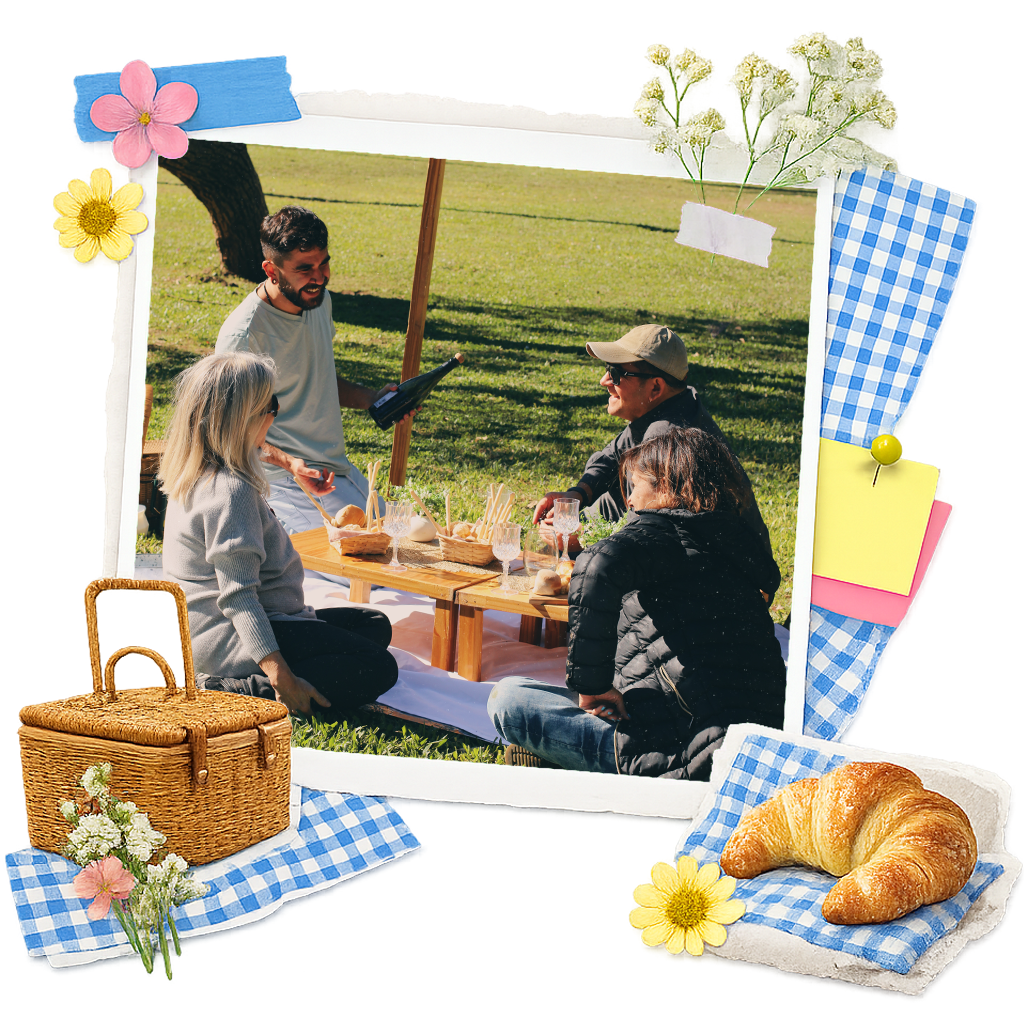
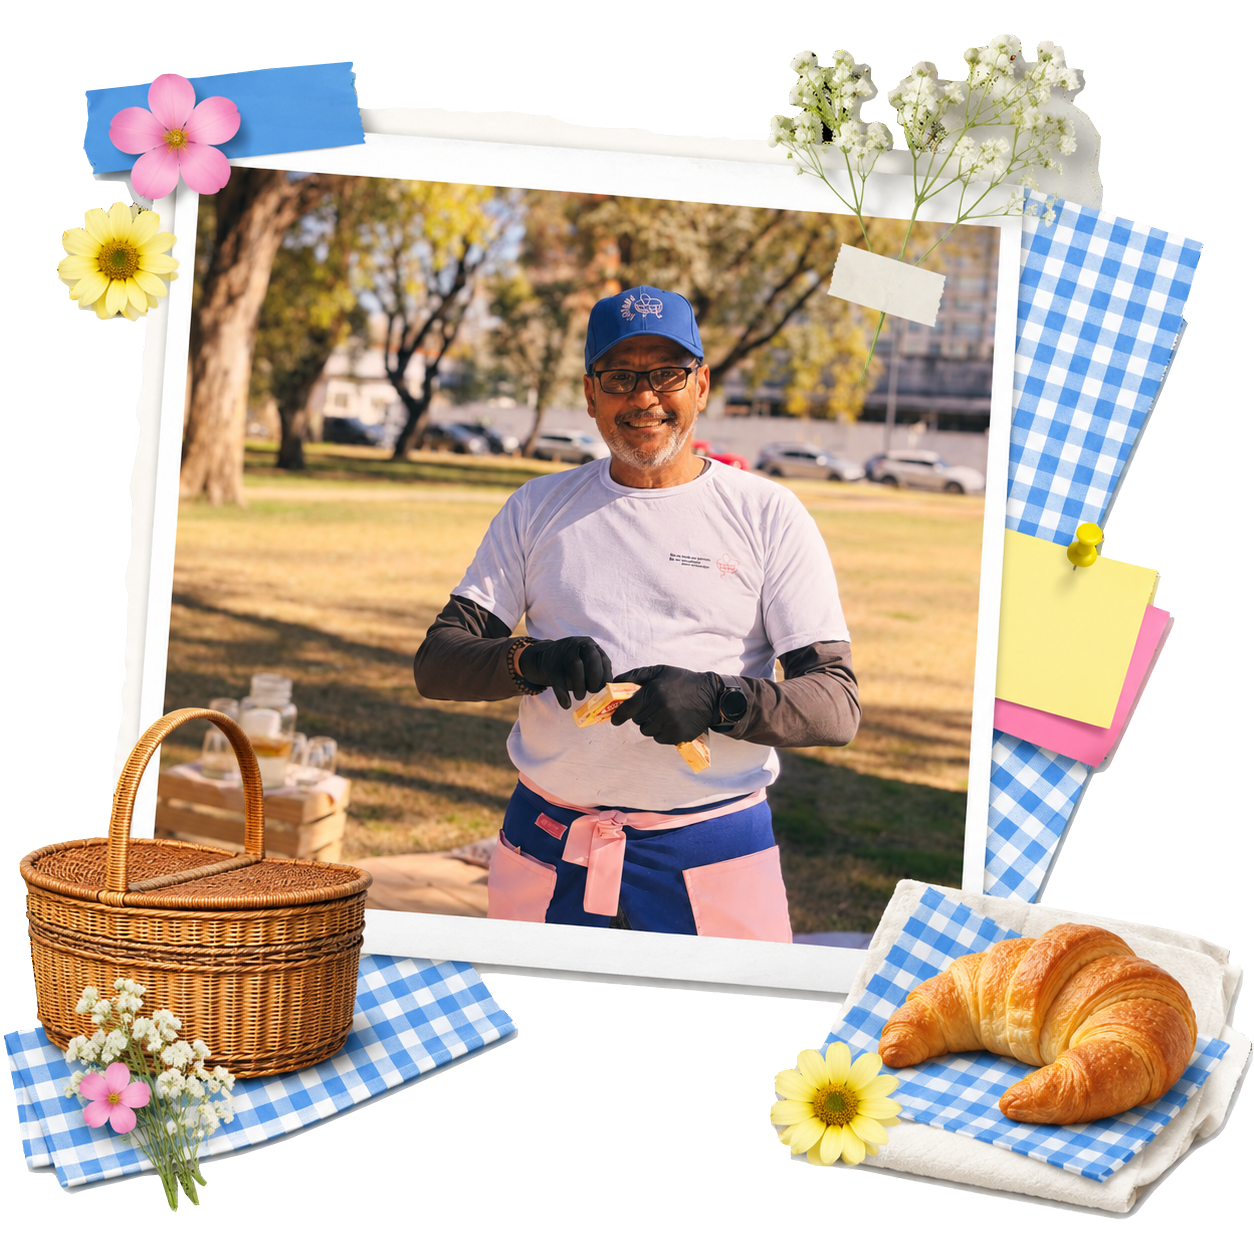
our-story videos and photos

diff --git a/client/src/app/pages/public/components/our-story/our-story.component.html b/client/src/app/pages/public/components/our-story/our-story.component.html
@@ -74,16 +74,48 @@
     </div>
   </section>
 
-  <section class="c-our-story--philosophy">
-    <div class="c-our-story--philosophy-container">
-      <p class="c-our-story--philosophy-subtitle">{{'PUBLIC.OUR_STORY.PHILOSOPHY.SUBTITLE' | translate}}</p>
-      <h2 class="c-our-story--philosophy-title">{{'PUBLIC.OUR_STORY.PHILOSOPHY.TITLE' | translate}}</h2>
-      <p class="c-our-story--philosophy-highlighted">{{'PUBLIC.OUR_STORY.PHILOSOPHY.TEXT_1' | translate}}</p>
-      <div class="c-our-story--philosophy-text" [innerHTML]="'PUBLIC.OUR_STORY.PHILOSOPHY.TEXT_2' | translate"></div>
+  <section class="c-our-story--family">
+    <div class="c-our-story--family-container">
+      <div class="c-our-story--family-content">
+        <span class="c-our-story--family-subtitle">{{'PUBLIC.OUR_STORY.FAMILY.SUBTITLE' | translate}}</span>
+        <h2 class="c-our-story--family-title">{{'PUBLIC.OUR_STORY.FAMILY.TITLE' | translate}}</h2>
+        <div class="c-our-story--family-description" [innerHTML]="'PUBLIC.OUR_STORY.FAMILY.TEXT_1' | translate"></div>
+        <ul class="c-our-story--family-list">
+          <li class="list-item">
+            <img class="list-item--icon" src="images/graphics/emoji_story_party.png" [alt]="'PUBLIC.OUR_STORY.FAMILY.LIST.ITEM_1' | translate" />
+            <span class="list-item--text">{{'PUBLIC.OUR_STORY.FAMILY.LIST.ITEM_1' | translate}}</span>
+          </li>
+          <li class="list-item">
+            <img class="list-item--icon" src="images/graphics/emoji_story_cake.png" [alt]="'PUBLIC.OUR_STORY.FAMILY.LIST.ITEM_2' | translate" />
+            <span class="list-item--text">{{'PUBLIC.OUR_STORY.FAMILY.LIST.ITEM_2' | translate}}</span>
+          </li>
+          <li class="list-item">
+            <img class="list-item--icon" src="images/graphics/emoji_story_ring.png" [alt]="'PUBLIC.OUR_STORY.FAMILY.LIST.ITEM_3' | translate" />
+            <span class="list-item--text">{{'PUBLIC.OUR_STORY.FAMILY.LIST.ITEM_3' | translate}}</span>
+          </li>
+          <li class="list-item">
+            <img class="list-item--icon" src="images/graphics/emoji_story_smileyhappy.png" [alt]="'PUBLIC.OUR_STORY.FAMILY.LIST.ITEM_4' | translate" />
+            <span class="list-item--text">{{'PUBLIC.OUR_STORY.FAMILY.LIST.ITEM_4' | translate}}</span>
+          </li>
+        </ul>
+        <div class="c-our-story--family-description" [innerHTML]="'PUBLIC.OUR_STORY.FAMILY.TEXT_2' | translate">
+        </div>
+      </div>
+      <div class="c-our-story--family-media">
+        <video 
+          class="c-our-story--family-img" 
+          autoplay 
+          muted 
+          loop 
+          playsinline
+          poster="images/picnics/foto_equipo_horizontal_edit.png">
+          <source src="videos/video_equipo_horizontal.mp4" type="video/mp4" />
+          <source src="videos/video_equipo_horizontal.webm" type="video/webm" />
+        </video>
+      </div>
     </div>
   </section>
-
-
+  
   <section class="c-our-story--mission">
     <div class="c-our-story--mission-wave c-our-story--mission-wave--top">
       <svg class="hide-mobile" viewBox="0 0 1440 120" preserveAspectRatio="none">
@@ -117,40 +149,12 @@
     </div>
   </section>
 
-  <section class="c-our-story--family">
-    <div class="c-our-story--family-container">
-      <div class="c-our-story--family-content">
-        <span class="c-our-story--family-subtitle">{{'PUBLIC.OUR_STORY.FAMILY.SUBTITLE' | translate}}</span>
-        <h2 class="c-our-story--family-title">{{'PUBLIC.OUR_STORY.FAMILY.TITLE' | translate}}</h2>
-        <div class="c-our-story--family-description" [innerHTML]="'PUBLIC.OUR_STORY.FAMILY.TEXT_1' | translate"></div>
-        <ul class="c-our-story--family-list">
-          <li class="list-item">
-            <img class="list-item--icon" src="images/graphics/emoji_story_party.png" [alt]="'PUBLIC.OUR_STORY.FAMILY.LIST.ITEM_1' | translate" />
-            <span class="list-item--text">{{'PUBLIC.OUR_STORY.FAMILY.LIST.ITEM_1' | translate}}</span>
-          </li>
-          <li class="list-item">
-            <img class="list-item--icon" src="images/graphics/emoji_story_cake.png" [alt]="'PUBLIC.OUR_STORY.FAMILY.LIST.ITEM_2' | translate" />
-            <span class="list-item--text">{{'PUBLIC.OUR_STORY.FAMILY.LIST.ITEM_2' | translate}}</span>
-          </li>
-          <li class="list-item">
-            <img class="list-item--icon" src="images/graphics/emoji_story_ring.png" [alt]="'PUBLIC.OUR_STORY.FAMILY.LIST.ITEM_3' | translate" />
-            <span class="list-item--text">{{'PUBLIC.OUR_STORY.FAMILY.LIST.ITEM_3' | translate}}</span>
-          </li>
-          <li class="list-item">
-            <img class="list-item--icon" src="images/graphics/emoji_story_smileyhappy.png" [alt]="'PUBLIC.OUR_STORY.FAMILY.LIST.ITEM_4' | translate" />
-            <span class="list-item--text">{{'PUBLIC.OUR_STORY.FAMILY.LIST.ITEM_4' | translate}}</span>
-          </li>
-        </ul>
-        <div class="c-our-story--family-description" [innerHTML]="'PUBLIC.OUR_STORY.FAMILY.TEXT_2' | translate">
-        </div>
-      </div>
-      <div class="c-our-story--family-media">
-        <img 
-          src="images/picnics/our-story-picnic1.jpg" 
-          alt="picnics" 
-          class="c-our-story--family-img" 
-        />
-      </div>
+  <section class="c-our-story--philosophy">
+    <div class="c-our-story--philosophy-container">
+      <p class="c-our-story--philosophy-subtitle">{{'PUBLIC.OUR_STORY.PHILOSOPHY.SUBTITLE' | translate}}</p>
+      <h2 class="c-our-story--philosophy-title">{{'PUBLIC.OUR_STORY.PHILOSOPHY.TITLE' | translate}}</h2>
+      <p class="c-our-story--philosophy-highlighted">{{'PUBLIC.OUR_STORY.PHILOSOPHY.TEXT_1' | translate}}</p>
+      <div class="c-our-story--philosophy-text" [innerHTML]="'PUBLIC.OUR_STORY.PHILOSOPHY.TEXT_2' | translate"></div>
     </div>
   </section>
   
@@ -161,10 +165,9 @@
       muted 
       loop 
       playsinline
-      poster="images/picnics/foto_lugares_drone_edit.jpg">
-      <!-- // TODO - cambiar video -->
-      <source src="videos/video_lugares_drone_edit.mp4" type="video/mp4" />
-      <source src="videos/video_lugares_drone_edit.webm" type="video/webm" />
+      poster="images/picnics/foto_equipo_drone_edit.png">
+      <source src="videos/video_drone_horizontal_nomada_equipo.mp4" type="video/mp4" />
+      <source src="videos/video_drone_horizontal_nomada_equipo.webm" type="video/webm" />
     </video>
     <div class="c-our-story--video-banner-overlay"></div>
     <div class="c-our-story--video-banner-content">

diff --git a/client/src/app/pages/public/components/our-story/our-story.component.scss b/client/src/app/pages/public/components/our-story/our-story.component.scss
@@ -6,6 +6,7 @@
   padding-bottom: 5rem;
   margin-bottom: -4rem;
   &--hero {
+    padding-top: 2rem;
     position: relative;
     z-index: 1;
     width: 100%;
